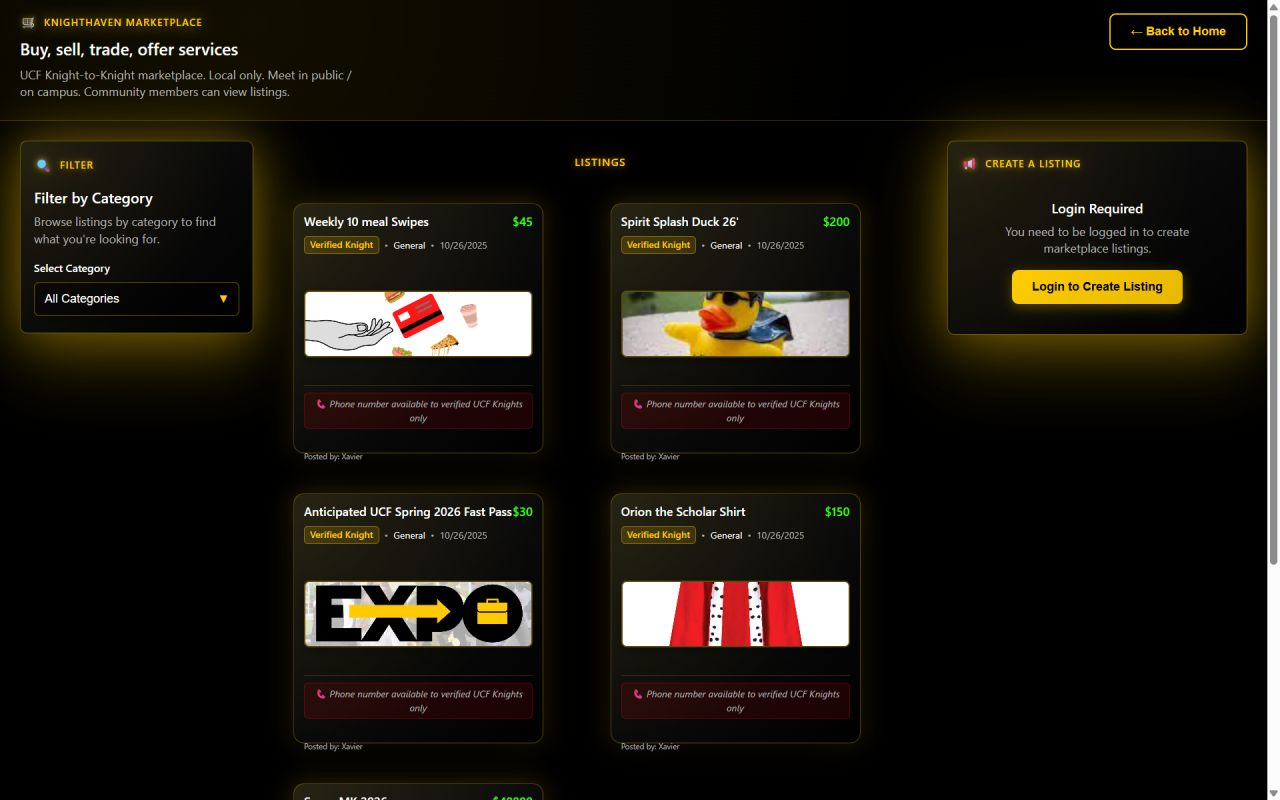
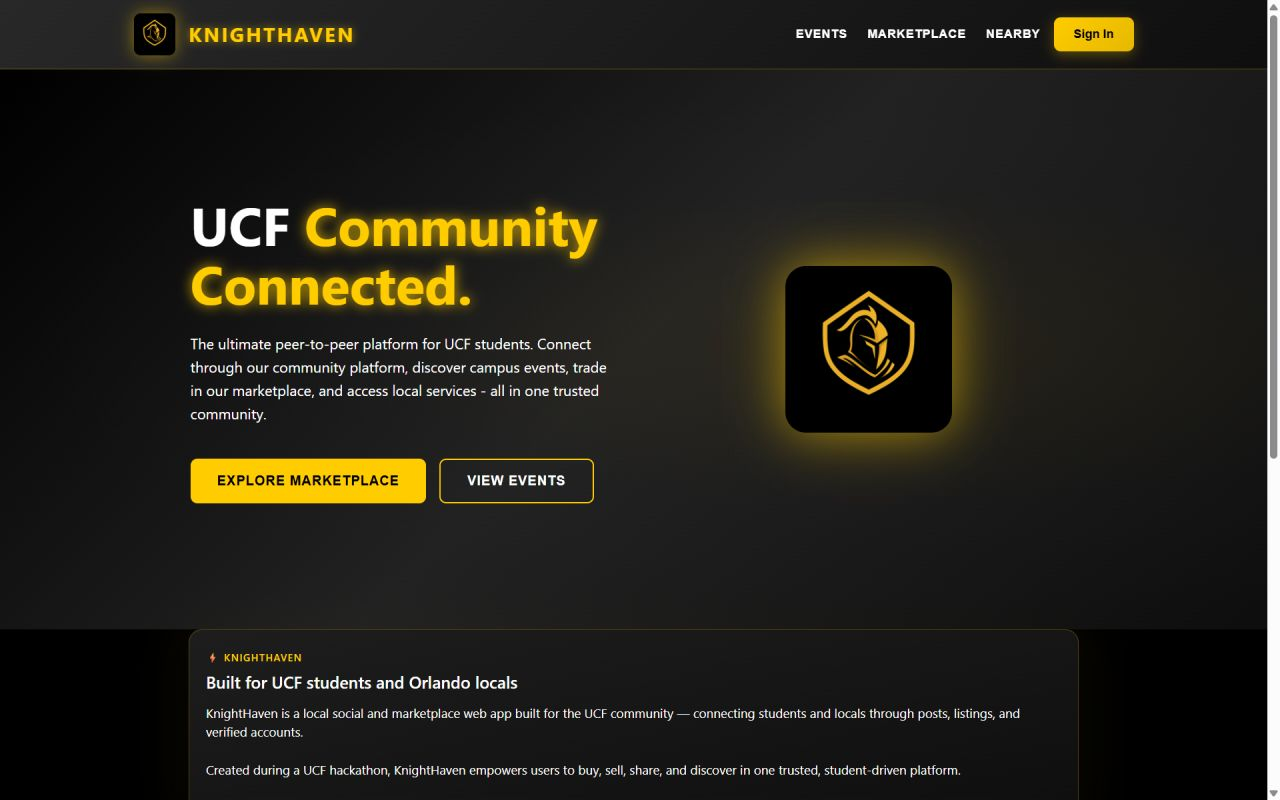
Added: Two New Project Entries

diff --git a/src/App.jsx b/src/App.jsx
@@ -41,7 +41,7 @@ function PixelAvatar() {
 }
 
 function PokemonParty() {
-  return <aside className="border-4 border-slate-900 bg-slate-50 p-3 shadow-[5px_5px_0px_0px_#38405f]" aria-label="Xavier's PokÃ©mon companion party">
+  return <aside className="border-4 border-slate-900 bg-slate-50 p-3 shadow-[5px_5px_0px_0px_#38405f]" aria-label="Xavier's PokÃƒÆ’Ã†â€™Ãƒâ€ Ã¢â‚¬â„¢ÃƒÆ’Ã¢â‚¬Å¡Ãƒâ€šÃ‚Â©mon companion party">
     <div className="mb-3 flex items-center justify-between font-pixel text-[9px]"><span>COMPANION PARTY</span><span className="text-slate-600">03 / 03</span></div>
     <div className="grid grid-cols-3 gap-2">{pokemonParty.map(pokemon => <div key={pokemon.name} className={`${pokemon.tint} group overflow-hidden border-2 border-slate-900 p-1`}><img className={`pixel-art h-20 w-full object-contain transition-transform duration-200 group-hover:-translate-y-1 ${pokemon.imageClass}`} src={pokemon.asset} alt={`${pokemon.name} pixel-art companion`} /><p className="border-t-2 border-slate-900 bg-slate-50 py-1 text-center font-pixel text-[7px] text-slate-900">{pokemon.name}</p></div>)}</div>
   </aside>
@@ -101,7 +101,7 @@ function Profile() {
 function LegacyPokedexCard() {
   const [active, setActive] = useState(0)
   const project = projects[active]
-  return <section id="projects" className="mx-auto max-w-7xl px-4 py-12 sm:px-6 lg:px-8"><SectionTitle kicker="[SECTION 02]">POKÃ‰DEX PROJECT SHOWCASE</SectionTitle><div className="border-4 border-slate-900 bg-rose-400 p-3 shadow-[8px_8px_0px_0px_#0f172a] sm:p-5"><div className="grid gap-5 lg:grid-cols-[230px_1fr]">
+  return <section id="projects" className="mx-auto max-w-7xl px-4 py-12 sm:px-6 lg:px-8"><SectionTitle kicker="[SECTION 02]">POKÃƒÆ’Ã†â€™Ãƒâ€ Ã¢â‚¬â„¢ÃƒÆ’Ã‚Â¢ÃƒÂ¢Ã¢â‚¬Å¡Ã‚Â¬Ãƒâ€šÃ‚Â°DEX PROJECT SHOWCASE</SectionTitle><div className="border-4 border-slate-900 bg-rose-400 p-3 shadow-[8px_8px_0px_0px_#0f172a] sm:p-5"><div className="grid gap-5 lg:grid-cols-[230px_1fr]">
     <nav className="grid grid-cols-2 gap-2 lg:grid-cols-1" aria-label="Project selector">{projects.map((item, index) => <button key={item.title} onClick={() => setActive(index)} className={`${hardButton} px-3 py-3 text-left font-pixel text-[9px] ${active === index ? 'bg-slate-900 text-slate-50' : 'bg-slate-50 text-slate-900'}`}><span className="mr-2 text-amber-400">{String(index + 1).padStart(2, '0')}</span>{item.title}</button>)}</nav>
     <article className="min-h-[375px] border-4 border-slate-900 bg-slate-50 p-5 sm:p-7"><div className="flex flex-wrap items-start justify-between gap-4 border-b-4 border-slate-900 pb-5"><div><p className="font-pixel text-[9px] text-slate-600">ENTRY_{String(active + 1).padStart(3, '0')}</p><h3 className="mt-2 font-pixel text-2xl leading-relaxed sm:text-3xl">{project.title}</h3><p className="mt-2 font-body font-bold">{project.date}</p></div><div className="pokedex-orb shrink-0" aria-hidden="true" /></div><div className="mt-5 flex flex-wrap gap-2">{project.types.map(type => <span key={type} className={`border-2 border-slate-900 ${project.color} px-2 py-1 font-pixel text-[8px]`}>{type}</span>)}</div><ul className="mt-7 space-y-4 font-body text-base leading-7">{project.details.map(detail => <li key={detail} className="flex gap-3"><span className="mt-2 h-3 w-3 shrink-0 border-2 border-slate-900 bg-slate-900" />{detail}</li>)}</ul></article>
   </div></div></section>
@@ -144,7 +144,7 @@ function PokedexCard() {
           </nav>
           <article id="project-details" className={`${isExpanded ? 'min-h-[590px] sm:p-8' : 'min-h-[375px]'} border-4 border-slate-900 bg-slate-50 p-5 transition-[min-height,padding] duration-300 sm:p-7`}>
             <div className="flex flex-wrap items-start justify-between gap-4 border-b-4 border-slate-900 pb-5">
-              <div className={`${project.color} min-w-0 flex flex-1 flex-col justify-between self-stretch border-4 border-slate-900 p-4 shadow-[4px_4px_0px_0px_#38405f] sm:p-5`}><div className="flex flex-wrap items-center gap-x-3 gap-y-1 font-pixel text-[9px] text-slate-600"><span>ENTRY_{String(projectNumber).padStart(3, '0')}</span>{getCategories(project).map(category => <span key={category}>| {category}</span>)}</div><div className="my-5"><div className="border-y-2 border-slate-900 py-3">{project.liveUrl ? <a href={project.liveUrl} target="_blank" rel="noreferrer" className="inline-flex items-center gap-2 font-pixel text-3xl leading-relaxed underline decoration-4 underline-offset-4 transition-colors hover:text-[#505775] focus-visible:outline-4 focus-visible:outline-offset-4 focus-visible:outline-slate-900 sm:text-4xl">{project.title}<span aria-hidden="true">↗</span></a> : <h3 className="font-pixel text-3xl leading-relaxed sm:text-4xl">{project.title}</h3>}</div></div><p className="border-t-2 border-slate-900 pt-3 font-body font-bold">{project.date}</p></div>
+              <div className={`${project.color} min-w-0 flex flex-1 flex-col justify-between self-stretch border-4 border-slate-900 p-4 shadow-[4px_4px_0px_0px_#38405f] sm:p-5`}><div className="flex flex-wrap items-center gap-x-3 gap-y-1 font-pixel text-[9px] text-slate-600"><span>ENTRY_{String(projectNumber).padStart(3, '0')}</span>{getCategories(project).map(category => <span key={category}>| {category}</span>)}</div><div className="mt-5 mb-2"><div className="border-y-2 border-slate-900 py-3">{project.liveUrl ? <a href={project.liveUrl} target="_blank" rel="noreferrer" className="inline-flex items-center gap-2 font-pixel text-3xl leading-relaxed underline decoration-4 underline-offset-4 transition-colors hover:text-[#505775] focus-visible:outline-4 focus-visible:outline-offset-4 focus-visible:outline-slate-900 sm:text-4xl">{project.title}<span aria-hidden="true">{'\u2197'}</span></a> : <h3 className="font-pixel text-3xl leading-relaxed sm:text-4xl">{project.title}</h3>}</div></div><div><p className="py-2 font-body font-bold">{project.purpose}</p><p className="border-t-2 border-slate-900 pt-2 font-body font-bold">{project.date}</p></div></div>
               {project.pictures[0] ? <figure className="project-reference w-full overflow-hidden border-4 border-slate-900 bg-sky-100 sm:w-80 lg:w-[26rem]"><img className="aspect-[16/11] w-full object-cover" src={project.pictures[0].src} alt={project.pictures[0].alt} /></figure> : <div className="flex h-24 w-full items-center justify-center border-4 border-dashed border-slate-900 bg-sky-100 px-3 text-center font-pixel text-[9px] text-slate-600 sm:w-52">PROJECT MEDIA<br />PENDING</div>}
             </div>
             <div className="mt-5 flex flex-wrap gap-2">{project.types.map(type => <span key={type} className={`border-2 border-slate-900 ${project.color} px-2 py-1 font-pixel text-[11px]`}>{type}</span>)}</div>
@@ -160,13 +160,13 @@ function PokedexCard() {
 
 function MoveSet() { return <section id="skills" className="mx-auto max-w-7xl px-4 py-12 sm:px-6 lg:px-8"><SectionTitle kicker="[SECTION 04]">MOVE-SET & STATS</SectionTitle><div className="grid gap-5 md:grid-cols-2">{moveSets.map((set, index) => <article key={set.title} className="border-4 border-slate-900 bg-slate-50 shadow-[5px_5px_0px_0px_#0f172a]"><div className={`${set.color} border-b-4 border-slate-900 p-4`}><div className="flex items-center justify-between gap-2"><h3 className="font-pixel text-sm leading-relaxed">{set.title}</h3><span className="border-2 border-slate-900 bg-slate-50 px-2 py-1 font-pixel text-[8px]">{set.type}</span></div></div><div className="p-4"><p className="mb-3 font-pixel text-[9px] text-slate-600">MOVE BANK_{String(index + 1).padStart(2, '0')}</p><div className="flex flex-wrap gap-2">{set.moves.map(move => <span key={move} className="border-2 border-slate-900 bg-slate-100 px-2 py-1.5 font-body text-sm font-bold transition-transform hover:-translate-y-0.5">{move}</span>)}</div></div></article>)}</div></section> }
 
-function QuestLog() { const [active, setActive] = useState(0); const quest = quests[active]; return <section id="quests" className="mx-auto max-w-7xl px-4 py-12 sm:px-6 lg:px-8"><SectionTitle kicker="[SECTION 04]">Trainer's Experience</SectionTitle><div className="grid gap-5 lg:grid-cols-[.75fr_1.25fr]"><div className="space-y-3">{quests.map((item, index) => <button key={item.org} onClick={() => setActive(index)} className={`${hardButton} w-full p-4 text-left ${active === index ? 'bg-slate-900 text-slate-50' : 'bg-slate-50 text-slate-900'}`}><p className="font-pixel text-[11px]">QUEST_{String(index + 1).padStart(2, '0')}</p><p className="mt-2 font-pixel text-md leading-relaxed">{item.title}</p><p className="mt-1 font-body text-sm font-bold">@ {item.org}</p></button>)}</div><article className="border-4 border-slate-900 bg-slate-50 p-5 shadow-[6px_6px_0px_0px_#0f172a] sm:p-7"><div className="flex flex-wrap items-start justify-between gap-4"><div><p className="font-pixel text-[11px] text-slate-600">ACTIVE QUEST</p><h3 className="mt-2 font-pixel text-xl leading-relaxed">{quest.title}</h3><p className="mt-2 font-body font-bold">{quest.org} Â· {quest.location}</p></div><span className={`${quest.color} border-4 border-slate-900 px-3 py-2 font-pixel text-[8px]`}>REWARD: {quest.reward}</span></div><div className="mt-6 border-y-4 border-slate-900 py-3 font-pixel text-14px]">DURATION: {quest.duration}</div><ul className="mt-6 space-y-4 font-body text-base leading-7">{quest.details.map(detail => <li key={detail} className="flex gap-3"><span className="mt-2 h-3 w-3 shrink-0 border-2 border-slate-900 bg-amber-400" />{detail}</li>)}</ul></article></div></section> }
+function QuestLog() { const [active, setActive] = useState(0); const quest = quests[active]; return <section id="quests" className="mx-auto max-w-7xl px-4 py-12 sm:px-6 lg:px-8"><SectionTitle kicker="[SECTION 04]">Trainer's Experience</SectionTitle><div className="grid gap-5 lg:grid-cols-[.75fr_1.25fr]"><div className="space-y-3">{quests.map((item, index) => <button key={item.org} onClick={() => setActive(index)} className={`${hardButton} w-full p-4 text-left ${active === index ? 'bg-slate-900 text-slate-50' : 'bg-slate-50 text-slate-900'}`}><p className="font-pixel text-[11px]">QUEST_{String(index + 1).padStart(2, '0')}</p><p className="mt-2 font-pixel text-md leading-relaxed">{item.title}</p><p className="mt-1 font-body text-sm font-bold">@ {item.org}</p></button>)}</div><article className="border-4 border-slate-900 bg-slate-50 p-5 shadow-[6px_6px_0px_0px_#0f172a] sm:p-7"><div className="flex flex-wrap items-start justify-between gap-4"><div><p className="font-pixel text-[11px] text-slate-600">ACTIVE QUEST</p><h3 className="mt-2 font-pixel text-xl leading-relaxed">{quest.title}</h3><p className="mt-2 font-body font-bold">{quest.org} ÃƒÆ’Ã†â€™ÃƒÂ¢Ã¢â€šÂ¬Ã…Â¡ÃƒÆ’Ã¢â‚¬Å¡Ãƒâ€šÃ‚Â· {quest.location}</p></div><span className={`${quest.color} border-4 border-slate-900 px-3 py-2 font-pixel text-[8px]`}>REWARD: {quest.reward}</span></div><div className="mt-6 border-y-4 border-slate-900 py-3 font-pixel text-14px]">DURATION: {quest.duration}</div><ul className="mt-6 space-y-4 font-body text-base leading-7">{quest.details.map(detail => <li key={detail} className="flex gap-3"><span className="mt-2 h-3 w-3 shrink-0 border-2 border-slate-900 bg-amber-400" />{detail}</li>)}</ul></article></div></section> }
 
 function CourseQuestLog() {
   const [active, setActive] = useState(0)
   const course = courseCatalog[active]
 
-  return <section id="courses" className="mx-auto max-w-7xl px-4 py-12 sm:px-6 lg:px-8"><SectionTitle kicker="[SECTION 05]">CS COURSE QUEST LOG</SectionTitle><div className="grid gap-5 lg:grid-cols-[.75fr_1.25fr]"><nav className="course-quest-selector space-y-3" aria-label="Course selector">{courseCatalog.map((item, index) => <button key={item.number} onClick={() => setActive(index)} aria-current={active === index ? 'true' : undefined} className={`${hardButton} lg:h-[5.75rem] w-full overflow-hidden p-4 text-left ${active === index ? 'bg-slate-900 text-slate-50' : 'bg-slate-50 text-slate-900'}`}><p className="font-pixel text-[11px]">COURSE_{item.number}</p><p className="mt-2 truncate font-pixel text-sm leading-relaxed">{item.title}</p><p className="mt-1 truncate font-body text-sm font-bold">@ {item.category}</p></button>)}</nav><article className="border-4 border-slate-900 bg-slate-50 p-5 shadow-[6px_6px_0px_0px_#0f172a] sm:p-7"><div className="flex flex-wrap items-start justify-between gap-4"><div><p className="font-pixel text-[11px] text-slate-600">ACTIVE COURSE</p><h3 className="mt-2 font-pixel text-xl leading-relaxed">{course.title}</h3><p className="mt-2 font-body font-bold">{course.category} Â· {course.level}</p></div><span className={`${course.color} border-4 border-slate-900 px-3 py-2 font-pixel text-[8px]`}>TRACK: {course.types.join(' / ')}</span></div><div className="mt-6 border-y-4 border-slate-900 py-3 font-pixel text-[11px]">CREDITS: {course.credits}</div><p className="mt-6 border-l-4 border-slate-900 pl-4 font-body text-base leading-7">{course.description}</p></article></div></section>
+  return <section id="courses" className="mx-auto max-w-7xl px-4 py-12 sm:px-6 lg:px-8"><SectionTitle kicker="[SECTION 05]">CS COURSE QUEST LOG</SectionTitle><div className="grid gap-5 lg:grid-cols-[.75fr_1.25fr]"><nav className="course-quest-selector space-y-3" aria-label="Course selector">{courseCatalog.map((item, index) => <button key={item.number} onClick={() => setActive(index)} aria-current={active === index ? 'true' : undefined} className={`${hardButton} lg:h-[5.75rem] w-full overflow-hidden p-4 text-left ${active === index ? 'bg-slate-900 text-slate-50' : 'bg-slate-50 text-slate-900'}`}><p className="font-pixel text-[11px]">COURSE_{item.number}</p><p className="mt-2 truncate font-pixel text-sm leading-relaxed">{item.title}</p><p className="mt-1 truncate font-body text-sm font-bold">@ {item.category}</p></button>)}</nav><article className="border-4 border-slate-900 bg-slate-50 p-5 shadow-[6px_6px_0px_0px_#0f172a] sm:p-7"><div className="flex flex-wrap items-start justify-between gap-4"><div><p className="font-pixel text-[11px] text-slate-600">ACTIVE COURSE</p><h3 className="mt-2 font-pixel text-xl leading-relaxed">{course.title}</h3><p className="mt-2 font-body font-bold">{course.category} ÃƒÆ’Ã†â€™ÃƒÂ¢Ã¢â€šÂ¬Ã…Â¡ÃƒÆ’Ã¢â‚¬Å¡Ãƒâ€šÃ‚Â· {course.level}</p></div><span className={`${course.color} border-4 border-slate-900 px-3 py-2 font-pixel text-[8px]`}>TRACK: {course.types.join(' / ')}</span></div><div className="mt-6 border-y-4 border-slate-900 py-3 font-pixel text-[11px]">CREDITS: {course.credits}</div><p className="mt-6 border-l-4 border-slate-900 pl-4 font-body text-base leading-7">{course.description}</p></article></div></section>
 }
 
 function Footer() {
@@ -190,7 +190,7 @@ function PixelSkyline() {
 }
 
 function App() {
-  return <main className="city-main min-h-screen overflow-x-hidden text-slate-900"><PixelSkyline /><div className="site-content relative z-10"><header className="border-b-4 border-slate-900 bg-slate-50"><div className="mx-auto flex max-w-7xl flex-wrap items-center justify-between gap-3 px-4 py-3 font-pixel text-[16px] sm:px-6 lg:px-8"><div className="flex items-center gap-2"><span className="border-2 border-slate-900 bg-purple-300 px-2 py-1.5">Xavier's Portfolio</span><img className="h-10 w-36 object-contain" src={pokeballs} alt="PokÃ© Balls" /></div><span>LVL 2027 <i className="mx-2 not-italic text-amber-500">|</i> ORLANDO, FL</span></div></header><TrainerCard /><Profile /><CoursePokedex /><PokedexCard /><MoveSet /><Footer /></div></main>
+  return <main className="city-main min-h-screen overflow-x-hidden text-slate-900"><PixelSkyline /><div className="site-content relative z-10"><header className="border-b-4 border-slate-900 bg-slate-50"><div className="mx-auto flex max-w-7xl flex-wrap items-center justify-between gap-3 px-4 py-3 font-pixel text-[16px] sm:px-6 lg:px-8"><div className="flex items-center gap-2"><span className="border-2 border-slate-900 bg-purple-300 px-2 py-1.5">Xavier's Portfolio</span><img className="h-10 w-36 object-contain" src={pokeballs} alt="PokÃƒÆ’Ã†â€™Ãƒâ€ Ã¢â‚¬â„¢ÃƒÆ’Ã¢â‚¬Å¡Ãƒâ€šÃ‚Â© Balls" /></div><span>LVL 2027 <i className="mx-2 not-italic text-amber-500">|</i> ORLANDO, FL</span></div></header><TrainerCard /><Profile /><CoursePokedex /><PokedexCard /><MoveSet /><Footer /></div></main>
 }
 
 export default App

diff --git a/src/projectEntries.js b/src/projectEntries.js
@@ -1,4 +1,4 @@
-import knightFinder1 from './projects_images/knightfinder/kf1.jpg'
+import knightFinder1 from './projects_images/knightfinder/kf1.jpg'
 
 const projectAssets = import.meta.glob('./assets/Projects/**/*.{jpg,jpeg,png,webp}', {
   eager: true,
@@ -17,7 +17,8 @@ export const projects = [
   {
     title: 'POWERTRAIN',
     category: ['EMBEDDED','AI & SYSTEMS'],
-    date: '1ST Place at UCF SHPE FALL 2026 Competition | August 2025 - November 2025',
+    purpose: 'UCF SHPE FALL 2026 COMPETITION — 1ST PLACE',
+    date: 'AUGUST 2025 – NOVEMBER 2025',
     types: ['EMBEDDED', 'HARDWARE','C++','ESP32', 'PYTHON','PYTORCH','PANDAS','SENSORS', 'SOLDERING'],
     color: 'bg-emerald-400',
     pictures: [],
@@ -27,14 +28,15 @@ export const projects = [
       'Led a cross-functional team of 6 engineering students to develop a ESP32 RC autonomous car while implementing feedback, suggestions, and direct criticism from competition coordinators',
       'Developed C and C++ firmware for real-time multi-sensor data acquisition, interfacing with peripherals and sensors via I2C and SPI to ensure data collection in a RTOS environment.',
       'Engineered a custom Python neural network using PyTorch to categorize autonomous driving behaviors, resulting in reduced battery wear, which extended driving times by 2-3x with 90% accuracy.',
-      'Troubleshooted hardwareâ€“software integration of our custom schematics, using oscilloscopes and multimeters, resolvingcircuit stability and improving sensor data reading, which were reported to GitHub teamâ€™s repository.',
+      'Troubleshooted hardwareÃƒÂ¢Ã¢â€šÂ¬Ã¢â‚¬Å“software integration of our custom schematics, using oscilloscopes and multimeters, resolvingcircuit stability and improving sensor data reading, which were reported to GitHub teamÃƒÂ¢Ã¢â€šÂ¬Ã¢â€žÂ¢s repository.',
     ],
   },
 
   {
     title: 'HERMES',
     category: ['AI & SYSTEMS','FULL STACK'],
-    date: '24-Hour Hackathon | March 2026',
+    purpose: '24-HOUR HACKATHON',
+    date: 'MARCH 2026',
     types: ['AI','Python','Flask','Gemini LLM','Google ADK', 'React','JavaScript', 'HTML', 'CSS',],
     color: 'bg-purple-300',
     // Add real project screenshots and destinations here as they become available.
@@ -51,7 +53,8 @@ export const projects = [
   {
     title: 'SCUDERIA SHPE',
     category: ['EMBEDDED','AI & SYSTEMS'],
-    date: '1ST AI Racer Grand Prix at UCF | January 2026 - April 2026',
+    purpose: 'UCF AI RACER GRAND PRIX — 1ST PLACE',
+    date: 'JANUARY 2026 – APRIL 2026',
     types: ['Lidar','Embedded','Hardware','Raspberry Pi','C++','Linux', 'ROS','Ubuntu', 'Python',],
     color: 'bg-purple-300',
     // Add real project screenshots and destinations here as they become available.
@@ -69,7 +72,8 @@ export const projects = [
   {
     title: 'SEE ME SAFE',
     category: ['EMBEDDED','AI & SYSTEMS','FULL STACK'],
-    date: '24-Hour Hackathon | April 2026',
+    purpose: '24-HOUR HACKATHON',
+    date: 'APRIL 2026',
     types: ['HARDWARE', 'EMBEDDED', 'C++', 'ESP32','PYTHON','FLASK','POSTGRESQL', 'REACT','JAVASCRIPT','HTML','CSS'],
     color: 'bg-rose-400',
     pictures: [],
@@ -85,7 +89,8 @@ export const projects = [
   {
     title: 'KNIGHT LIFE',
     category: 'FULL STACK',
-    date: 'Knight Hacks Semester Hackathon | Jan 2026 - Apr 2026',
+    purpose: 'KNIGHT HACKS SEMESTER HACKATHON',
+    date: 'JANUARY 2026 – APRIL 2026',
     types: ['FULL-STACK', 'REACT', 'TYPESCRIPT', 'SQL','PYTHON','BEAUTIFULSOUP'],
     color: 'bg-cyan-400',
     pictures: [],
@@ -93,7 +98,7 @@ export const projects = [
     liveUrl: 'https://knightlifeucf.vercel.app/',
     details: [
       'Built an ecosystem platform for all Registered Social Organizations (RSO) at UCF using React, TypeScript, HTML, CSS resulting in positive peer student and RSO feedback.',
-      'Engineered a daily scraping pipeline for Instagram and Facebook, using Python BeautfulSoup, Saving the RSOâ€™s event and information data through RESTful APIs on a SQL Database.',
+      'Engineered a daily scraping pipeline for Instagram and Facebook, using Python BeautfulSoup, Saving the RSOÃƒÂ¢Ã¢â€šÂ¬Ã¢â€žÂ¢s event and information data through RESTful APIs on a SQL Database.',
       'Stored event data in a SQL database and exposed it through REST APIs.',
       'Attended Biweekly tracking sessions with project stakeholders to receive direction and feedback in the process of developing our app, resulting in more efficient team merging code processes',
     ],
@@ -101,7 +106,8 @@ export const projects = [
   {
     title: 'KNIGHT LAB',
     category: 'FULL STACK',
-    date: 'March 2026 - April 2026',
+    purpose: 'UCF RESEARCH OPPORTUNITY PLATFORM',
+    date: 'MARCH 2026 – APRIL 2026',
     types: ['FULL STACK', 'MOBILE DEV','TYPESCRIPT', 'HTML','CSS','EXPRESS','NoSQL', 'MONGODB'],
     color: 'bg-emerald-400',
     pictures: [],
@@ -115,18 +121,35 @@ export const projects = [
     ],
   },
   {
-    title: 'KNIGHT FINDER',
-    category: ['AI & SYSTEMS','FULL STACK'],
-    date: '3rd Place @ Knight Hacks Semester long Competition| Jan 2025 - Apr 2025',
-    types: ['CHROME EXTENSION', 'FULL STACK','AGENTIC AI', 'PYTHON','GEMINI LLM', 'MYSQL','JAVASCRIPT','HTML','CSS','TAILWIND CSS'],
-    color: 'bg-amber-400',
+    title: 'LEARNWORLD',
+    category: ['FULL STACK','AI & SYSTEMS'],
+    purpose: 'KNIGHTHACKS SUMMER HACKATHON',
+    date: 'SUMMER 2026',
+    types: ['FULL STACK','GEMINI LLM', 'MYSQL','REACT','NEXT.JS','TYPESCRIPT','HTML','CSS','TAILWIND CSS'],
+    color: 'bg-CYAN-400',
     pictures: [],
-    githubUrl: 'https://github.com/XavierS31/Knight-Finder',
+    githubUrl: 'https://github.com/XavierS31/learnworld',
+    liveUrl: 'https://learnworld-ruby.vercel.app/',
+    details: [
+      'Built a gamified CS learning platform with Next.js, React, TypeScript, and Tailwind, implementing interactive algorithm simulations across a 32-skill curriculum.',
+      'Integrated Gemini API for state-aware AI tutoring with server-side authentication, schema validation, and offline fallbacks.',
+      'Engineered local-first persistence with IndexedDB and automated testing using Vitest and Playwright for progress, XP, and achievements.',
+    ],
+  },
+  {
+    title: 'KNIGHTHAVEN',
+    category: ['FULL STACK'],
+    purpose: 'KNIGHTHACKS FALL HACKATHON',
+    date: 'OCTOBER 2025',
+    types: ['FULL STACK', 'PYTHON', 'SQLite','REACT','TYPESCRIPT','JAVASCRIPT','HTML','CSS','TAILWIND CSS','BeautifulSoup'],
+    color: 'bg-ROSE-400',
+    pictures: [],
+    githubUrl: 'https://github.com/thejoshperez/KnightHaven',
     liveUrl: null,
     details: [
-      'Developed a chrome extension using JavaScript, HTML, CSS to help students at the University of Central Florida to navigate the student portal with less queries.',
-      'Engineered an AI agent using Gemini LLM through Python and Flask to guide students, saving their queries on a MySQL database, resulting in faster portal activity resulting in faster navigation from 6 to 3 clicks.',
-      'Received monthly team checkpoints with project stakeholders in which they will give us feedback and criticism for better project development and team dynamics.',
+      'Built an Auth0 verified UCF unified student platform using ReactJs and Node.js for 36 hour hackathon within a team of 4.',
+      'Engineered daily scraping systems with Python and Beautifulsoup for UCF related events and display to students through the platform with TypeScript.',
+      'Implemented RESTful APIs for data retrieving of local UCF places from YELP API to stored them in an SQLite database.',
     ],
   },
 ]
@@ -137,4 +160,6 @@ projects.find(project => project.title === 'HERMES').pictures = gallery('HERMES'
 projects.find(project => project.title === 'SCUDERIA SHPE').pictures = gallery('SCUDERIA SHPE', 'ScuderiaSHPE')
 projects.find(project => project.title === 'SEE ME SAFE').pictures = gallery('SEE ME SAFE', 'SeeMeSafe')
 projects.find(project => project.title === 'KNIGHT LIFE').pictures = gallery('KNIGHT LIFE', 'KnightLife')
-projects.find(project => project.title === 'KNIGHT FINDER').pictures = [{ src: knightFinder1, alt: 'KNIGHT FINDER project screenshot 1', caption: 'KNIGHT FINDER // SCREEN 01' }]
+projects.find(project => project.title === 'LEARNWORLD').pictures = gallery('LEARNWORLD', 'LearnWorld')
+projects.find(project => project.title === 'KNIGHTHAVEN').pictures = gallery('KNIGHTHAVEN', 'KnightHaven')
+projects.find(project => project.title === 'KNIGHT LAB').pictures = [{ src: knightFinder1, alt: 'KNIGHT LAB project screenshot 1', caption: 'KNIGHT LAB // SCREEN 01' }]
